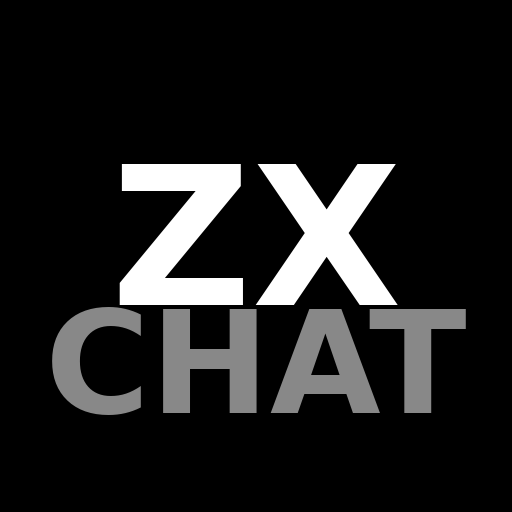
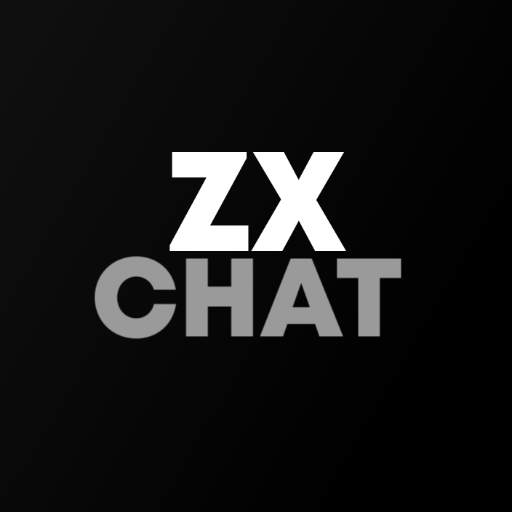
Add files via upload

Changed region(s): [[0.0938, 0.2812, 0.9062, 0.8125]]

diff --git a/index.html b/index.html
@@ -10,8 +10,8 @@
 <meta name="apple-mobile-web-app-title" content="ZXChat"/>
 <meta name="application-name" content="ZXChat"/>
 <meta name="description" content="ZXChat — Secure Messaging"/>
-<link rel="apple-touch-icon" href="icon-192.png"/>
-<link rel="manifest" href="manifest.json"/>
[1 lines of base64/hex data omitted]
+<link rel="manifest" href="data:application/manifest+json,%7B%22name%22%3A%22ZXChat%22%2C%22short_name%22%3A%22ZXChat%22%2C%22description%22%3A%22ZXChat%20%5Cu2014%20Secure%20Messaging%22%2C%22start_url%22%3A%22.%2F%22%2C%22display%22%3A%22standalone%22%2C%22background_color%22%3A%22%23000000%22%2C%22theme_color%22%3A%22%23000000%22%2C%22orientation%22%3A%22portrait-primary%22%2C%22icons%22%3A%5B%7B%22src%22%3A%22data%3Aimage%2Fpng%3Bbase64%2CiVBORw0KGgoAAAANSUhEUgAAAMAAAADACAIAAADdvvtQAAACWklEQVR42u3dwQ0DMQwEMfXftK8Lw6ehgGnAWCa%2FZGbmSOE8ggCQAJAAkACQAJAAkACQAJAAkACQAJAAkACQAJAAkACQAJAAkACQAJAAkACQAJAAkACQAJAAkACQAJAAkACQAJAAkACQAJAAkJYDcLsOAAAAAAAAAAAAAAAAAAAAAAAAAAAAAAAAAAAAAAAAAAAAAAAAAABwAADgAADAAQCAAwAABwAADgAAHAAAOAAAcAAA4AAAwAEAgAMAAAeAH8bSfz%2BcAJDhAyDDB0CGD4CMHwAZPgAyfABk%2FADI8AGQ4QMg4wdAhg%2BADB8AGT8Ahm%2F4ABi%2B4QNg%2BIYPgPEbPwCGb%2FgAGL7hA2D8xg%2BA4ZeHD4DhH%2B%2FsAYwfABk%2BADJ8AGT8AMjwAZDhAyDDB0DGD4AMHwAZPgAyfgBk%2BADI8AEwfuMHwPANHwDDN3wAjN%2F4ATB8wwfA8A0fAMM3fACM3%2FgBMHzvDIDhCwDjFwCGLwAMXwAYvwAwfAFg%2BALA%2BAWA4QsAwxcAhi8AjF8AGL7CAAxfWQDGryQAw1cSgOErC8D4lQRg%2BEoCMHxlARi%2FkgAMX0kAhi%2FfAA9hcfcOAAAAAAAAAAAAAAAAAAAAAAAAAAAAAAAAAAAAAAAAAAAAAAAAAABwAADgAADAAQCAAwAABwAADgAAHAAAOAAAcAAA4AAAwAEAgAMAAAfA%2Fj%2FJkwCQAJAAkACQAJAAkACQAJAAkACQAJAAkACQPIAAkACQAJAAkACQAJAAkACQAJAAkACQAJAAkACQAJAAkACQAJAAkACQAJAAkACQnukDlXZUMc%2BUgR8AAAAASUVORK5CYII%3D%22%2C%22sizes%22%3A%22192x192%22%2C%22type%22%3A%22image%2Fpng%22%2C%22purpose%22%3A%22any%20maskable%22%7D%2C%7B%22src%22%3A%22data%3Aimage%2Fpng%3Bbase64%2CiVBORw0KGgoAAAANSUhEUgAAAgAAAAIACAIAAAB7GkOtAAAK1UlEQVR42u3XAQ3AAAgDwfo3DToo1%2BQMLMv4JckAAO94CAAgAAAAAQAACAAAQAAAAAIAABAAAIAAAAAEAAAgAAAAAQAACAAAQAAAAAIAABAAAIAAAAAEAAAgAABAAAAAAgAAEAAAgAAAAAQAACAAAAABAAAIAABAAAAAAgAAEAAAgAAAAAQAACAAAAABAAAIAABAAACAAAAABAAAIAAAAAEAAAgAAEAAAAACAAAQAACAAAAABAAAIAAAAAEAAAgAAEAAAAACAAAQAACAAAAAAQAACAAAQAAAAAIAABAAAIAAAAAEAAAgAAAAAQAACAAAQAAAAAIAABAAAIAAAAAEAAAgAAAAAQAAAgAAEAAAgAAAAAQAACAAAAABAAAIAABAAAAAAgAAEAAAgAAAAAQAACAAAAABAAAIAABAAAAAAgAA8BAAQAAAAAIAABAAAIAAAAAEAAAgAAAAAQAACAAAQAAAAAIAABAAAIAAAAAEAAAgAAAAAXCSmVnLfNMFAALAzAQAAgABYGYCAAGAADAzAYAAEABmZgIAASAAzMwEAAJAAJiZCQAEgAAwMxMACAABYGYmABAAAsDMTAAgAASAmZkAQAAIADMzASAAEABmZgJAACAAzMwEgABAAJiZCQABgAAwMxMAAgABYGYmAAQAAsDMTAAIAASAmQkABAACwMwEAAIAAWBmAgABgC%2BGmQkABIAAMDMTAAgAAWBmJgAQAALAzEwAIAAEgJmZAEAACAAzMwGAABAAZmYCAAEgAMzMBIAAQACYmQkAAYAAMDMTAAIAAWBmJgAEAALAzEwACAAEgJmZABAACAAzMwEgABAAZiYAEAAIADMTAAgABICZCQAEAALAzAQAAkAAmJkJAASAADAzEwAIAAFgZiYAEAACwMxMACAABICZmQBAAAgAMzMBgAAQAGZmAkAAIADMzASAAEAAmJkJAAGAADAzEwACAAFgZiYABAACwMxMAAgABICZmQAQAAgAMxMACAAEgJkJAAQAAsDMBAACAAFgZgIAASAAzMwEAAJAAJiZCQAEgAAwMxMACAABYGYmABAAAsDMTAAgAASAmZkAQAAIADMzASAAEABmZgJAAADgZ0KACAAAHH6HXwAA4PA7%2FAIAAIff4RcAADj%2Bjr8AAMDhd%2FgFAAAOv8MvAABw%2FB1%2FAQCAw%2B%2FwCwAAh9%2B8BwIAwOF3%2BBEAAI6%2F448AAHD4HX4EAIDD7%2FAjAAAcf8cfAQDg8Dv8eAgADr%2FDLwAAcPwdfwEAgMPv8AsAABx%2Bh18AAODwO%2FwCAMDxd%2Fy9BwIAwOF3%2BBEAAA6%2Fw48AAHD8HX8EAIDD7%2FAjAAAcfocfAQDg8Dv8CAAAx9%2FxRwAAOPwOPwIAwOF3%2BBEAAI6%2F448AAHD4HX4EAODwO%2FwIAADH3%2FFHAAA4%2FA4%2FAgDA4Xf4EQAADr%2FDjwAAcPwdfwQAgMPv8CMAABx%2Bhx8BAOD4O%2F4IAACH3%2BFHAAA4%2FA4%2FAgDA4Xf4EQCA4%2B%2F4gwAAHH6HHwQA4PA7%2FCAAAMff8QcBADj8Dj8IAMDhd%2FgRAACOv%2BOPAABw%2BB1%2BBACAw%2B%2FwIwAAHH6HHwEA4Pg7%2FggAAIff4UcAAA6%2Fww8CAHD8HX8QAIDD7%2FCDAAAcfocfBADg8Dv8IAAAx9%2FxBwEAOPwOPwgAwOF3%2BEEAAI6%2F4w8CAHD4HX4QAIDD7%2FAjAAAcf8cfAQA4%2FA4%2FCADA4Xf4QQAADr%2FDDwIAcPwdfxAAgMPv8IMAABx%2Bhx8EAOD4O%2F4gAACH3%2BEHAQA4%2FA4%2FCADA4Xf4QQAAjr%2FjDwIAHH7zHoAAAIff4QcEADj%2Bjj8gAMDhd%2FgBAQAOv8MPAgBw%2FB1%2FEACAw%2B%2FwgwAAHH6HHwQA4PA7%2FCAAAMff8QcBADj8Dj8IAMDhd%2FhBAIDj7%2Fh7D0AAgMPv8AMCABx%2Bhx8QAODwO%2FyAAADH3%2FEHBAA4%2FA4%2FIADA4Xf4AQEAjr%2FjDwgAcPgdfkAAgMPv8AMeAjj%2Bjj8IAMDhd%2FhBAIDD7%2FADAgAcfocfEADg%2BDv%2BgAAAh9%2FhBwQAOPwOPyAAwPF3%2FAEBAA6%2Fww8IAHD4HX5AAIDD7%2FADAgAcf8cfEADg8Dv8gAAAh9%2FhBwQAjr%2FjDyAAcPgdfgABgMPv8AMIABx%2Fxx8QAODwO%2FyAAACH3%2BEHBAA4%2FA4%2FIADA8Xf8AQEADr%2FDDwgAcPgdfkAAgOPv%2BAMCABx%2Bhx8QADj8Dj%2BAAMDhd%2FgBBACOv%2BMPIABw%2BB1%2BAAGAw%2B%2FwAwgAHH%2FHH0AA4PA7%2FAACAIff4QcQADj%2Bjj8gAMDhd%2FgBAQAOv8MPCAAcfvMeAAIAx9%2FxBxAAOPwOP4AAwOF3%2BAEEAI6%2F4w8gAHD4HX4AAYDD7%2FADCAAcfocfQADg%2BDv%2BAAIAh9%2FhBxAAOPwOP4AAwPF3%2FAEEgMPv8HsPAASAw%2B%2FwAyAAHH%2FHH0AA4PA7%2FAACAIff4QcQADj8Dj%2BAAMDxd%2FwBBAAOv8MPIABw%2BB1%2BAAGA4%2B%2F4AwgAHH6HH0AA4PA7%2FAACwOF3%2BAEQAI6%2F4w%2BAAHD4HX4ABIDD7%2FADIAAcf8cfAAHg8Dv8AAgAh9%2FhB0AAOP6OP4AAwOF3%2BAEEAA6%2Fww8gAHD4HX4AAYDj7%2FgDCACH3%2BEHQAA4%2FA4%2FAALA8Xf8ARAADr%2FDD4AAcPgdfgAEAOLDzPxIIAAEgJmZAEAACAAzMwGAABAAZmYCAAEgAMzMBAACQACYmQkABIAAMDMTAAgAAWBmJgDwEASAmZkAEAAIADMzASAAEABmZgJAACAAzMwEgABAAJiZCQABgAAwMxMAAgABYGbmmy4AEABmJgAQAAgAMxMACAAEgJkJAASAADAzEwAIAAFgZiYAEAACwMxMACAABICZmQBAAAgAMzMBgAAQAGZmAgABIADMzAQAAkAAmJkJAAGAADAzEwACAAFgZiYABAACwMxMAAgABICZmQAQAAgAMzMBIAAQAGZmAkAAIADMTAAgABAAZiYAEAAIADMTAAgAfDHMTAAgAASAmZkAQAAIADMzAYAAEABmZgIAASAAzMwEAAJAAJiZCQAEgAAwMxMACAABYGYmAAQAAsDMTAAIAASAmZkAEAAIADMzASAAEABmZgJAACAAzMwEgABAAJiZCQABgAAwMwGAAEAAmJkAQAAgAMxMACAAEABmJgAQAALAzEwAIAAEgJmZAEAACAAzMwGAABAAZmYCAAEgAMzMBAACQACYmQkABIAAMDMTAAIAAWBmJgAEAALAzEwACAAEgJmZABAACAAzMwEgAAAAAQAACAAAQAAAAAIAABAAAIAAAAAEAAAgAAAAAQAACAAAQAAAAAIAAAQAACAAAAABAAAIAABAAAAAAgAAEAAAgAAAAAQAACAAAAABAAAIAABAAAAAAgAAEAAAgAAAAAQAAOAhAIAAAAAEAAAgAAAAAQAACAAAQAAAAAIAABAAAIAAAAAEAAAgAAAAAQAACAAAQAAAAAIAABAAAIAAAAABAAAIAABAAAAAAgAAEAAAgAAAAAQAACAAAAABAAAIAABAAAAAAgAAEAAAgAAAAAQAACAAAAABAAACAAAQAACAAAAABAAAIAAAAAEAAAgAAEAAAAACAAAQAACAAAAABAAAIAAAAAEAAAgAAEAAAAACAAAEAAAgAAAAAQAACAAAQAAAAAIAABAAAIAAAAAEAAAgAAAAAQAACAAAQAAAAAIAABAAAIAAAAAEAAAIAABAAAAAAgAAKLMvSCOkWP%2FqsgAAAABJRU5ErkJggg%3D%3D%22%2C%22sizes%22%3A%22512x512%22%2C%22type%22%3A%22image%2Fpng%22%2C%22purpose%22%3A%22any%20maskable%22%7D%5D%7D"/>
 <title>ZX Chat</title>
 <link href="https://fonts.googleapis.com/css2?family=Bebas+Neue&family=DM+Sans:ital,opsz,wght@0,9..40,300;0,9..40,400;0,9..40,500;0,9..40,600;0,9..40,700;1,9..40,400&family=DM+Mono:wght@400;500&display=swap" rel="stylesheet"/>
 <style>
@@ -146,6 +146,31 @@ html,body{height:100%;background:var(--bg);color:var(--text);font-family:'DM San
 .inp-btn:hover{background:var(--surface2);color:var(--text);}
 .send-btn{background:var(--text);color:#000;border-color:var(--text);}
 .send-btn:hover{background:var(--accent2);}
+/* ── VOICE RECORDING BAR ── */
+#voice-rec-bar{display:none;align-items:center;gap:10px;padding:6px 4px;}
+#voice-rec-bar.on{display:flex;}
+.vrec-dot{width:9px;height:9px;border-radius:50%;background:var(--danger);flex-shrink:0;animation:pulse-rec 1s infinite;}
+@keyframes pulse-rec{0%,100%{opacity:1;}50%{opacity:.25;}}
+#vrec-timer{font-family:'DM Mono',monospace;font-size:12px;color:var(--text);min-width:38px;}
+#vrec-wave{flex:1;height:26px;display:flex;align-items:center;gap:2px;overflow:hidden;}
+.vrec-bar{width:3px;border-radius:2px;background:var(--border2);flex-shrink:0;}
+#vrec-cancel{background:none;border:1px solid var(--border2);color:var(--text3);cursor:pointer;font-size:10px;font-family:'DM Mono',monospace;letter-spacing:.5px;padding:4px 8px;border-radius:6px;transition:.15s;}
+#vrec-cancel:hover{color:var(--danger);border-color:var(--danger);}
+#vrec-send{width:38px;height:38px;background:var(--text);color:#000;border:none;border-radius:9px;cursor:pointer;display:flex;align-items:center;justify-content:center;flex-shrink:0;}
+#vrec-send svg{width:15px;height:15px;stroke:currentColor;fill:none;stroke-width:2;stroke-linecap:round;stroke-linejoin:round;}
+/* ── VOICE MESSAGE PLAYER ── */
+.vmsg-wrap{display:flex;align-items:center;gap:10px;min-width:190px;max-width:240px;}
+.vmsg-play{width:36px;height:36px;border-radius:50%;background:var(--surface3);border:1px solid var(--border2);color:var(--text);cursor:pointer;display:flex;align-items:center;justify-content:center;flex-shrink:0;transition:.15s;}
+.vmsg-play:hover{background:var(--border2);}
+.vmsg-play svg{width:13px;height:13px;stroke:currentColor;fill:none;stroke-width:2.2;stroke-linecap:round;stroke-linejoin:round;}
+.vmsg-right{flex:1;display:flex;flex-direction:column;gap:4px;}
+.vmsg-waveform{display:flex;align-items:center;gap:1.5px;height:22px;cursor:pointer;}
+.vmsg-wbar{width:2.5px;border-radius:2px;background:var(--border2);flex-shrink:0;transition:background .15s;}
+.vmsg-wbar.played{background:var(--text2);}
+.vmsg-bot{display:flex;align-items:center;gap:6px;}
+.vmsg-prog-wrap{flex:1;height:3px;background:var(--border2);border-radius:2px;cursor:pointer;position:relative;}
+.vmsg-prog{height:3px;background:var(--text);border-radius:2px;width:0%;}
+.vmsg-dur{font-family:'DM Mono',monospace;font-size:10px;color:var(--text3);white-space:nowrap;}
 #attach-menu{position:absolute;bottom:64px;left:16px;background:var(--surface);border:1px solid var(--border2);border-radius:10px;display:none;flex-direction:column;min-width:170px;z-index:10;overflow:hidden;box-shadow:0 8px 24px rgba(0,0,0,.6);}
 #attach-menu.on{display:flex;}
 .am-opt{display:flex;align-items:center;gap:9px;padding:10px 14px;font-size:13px;color:var(--text2);cursor:pointer;transition:.12s;font-family:'DM Sans',sans-serif;}
@@ -403,6 +428,15 @@ input[type=file]{display:none;}
             <div class="am-opt" onclick="pick('any')"><svg viewBox="0 0 24 24" width="15" height="15" stroke="currentColor" fill="none" stroke-width="1.8" stroke-linecap="round" stroke-linejoin="round"><path d="m21.44 11.05-9.19 9.19a6 6 0 0 1-8.49-8.49l8.57-8.57A4 4 0 1 1 18 8.84l-8.59 8.57a2 2 0 0 1-2.83-2.83l8.49-8.48"/></svg> Any File</div>
           </div>
           <div id="emo-pick"></div>
+          <div id="voice-rec-bar">
+            <div class="vrec-dot"></div>
+            <span id="vrec-timer">0:00</span>
+            <div id="vrec-wave"></div>
+            <button id="vrec-cancel" onclick="cancelVoice()">CANCEL</button>
+            <button id="vrec-send" onclick="stopVoice(true)" title="Send">
+              <svg viewBox="0 0 24 24"><line x1="22" y1="2" x2="11" y2="13"/><polygon points="22 2 15 22 11 13 2 9 22 2"/></svg>
+            </button>
+          </div>
           <div class="input-row">
             <button class="inp-btn" onclick="toggleAttach()" title="Attach"><svg viewBox="0 0 24 24"><path d="m21.44 11.05-9.19 9.19a6 6 0 0 1-8.49-8.49l8.57-8.57A4 4 0 1 1 18 8.84l-8.59 8.57a2 2 0 0 1-2.83-2.83l8.49-8.48"/></svg></button>
 
@@ -410,6 +444,7 @@ input[type=file]{display:none;}
               onkeydown="if(event.key==='Enter'&&!event.shiftKey){event.preventDefault();sendMsg();}"
               oninput="autoH(this);onTyping();"></textarea>
 
+            <button class="inp-btn" id="voice-btn" onclick="startVoice()" title="Voice note"><svg viewBox="0 0 24 24"><path d="M12 2a3 3 0 0 1 3 3v7a3 3 0 0 1-6 0V5a3 3 0 0 1 3-3z"/><path d="M19 10v2a7 7 0 0 1-14 0v-2"/><line x1="12" y1="19" x2="12" y2="22"/></svg></button>
             <button class="inp-btn send-btn" onclick="sendMsg()" title="Send"><svg viewBox="0 0 24 24"><line x1="22" y1="2" x2="11" y2="13"/><polygon points="22 2 15 22 11 13 2 9 22 2"/></svg></button>
           </div>
         </div>
@@ -1049,7 +1084,29 @@ function buildMsg(m,users,rx,polls){
   else if(m.type==='image')body=`<img class="msg-img" src="${m.url}" onclick="lightbox(this.src)" style="max-width:100%;"/>`;
   else if(m.type==='video')body=`<div style="background:var(--surface3);border-radius:8px;padding:14px;font-size:12px;color:var(--text3);font-family:'DM Mono',monospace;">📹 Video not supported</div>`;
   else if(m.type==='audio')body=`<audio class="msg-audio" controls style="width:100%;max-width:220px;"><source src="${m.url}"/></audio>`;
-  else if(m.type==='voice')body=`<div style="display:flex;align-items:center;gap:8px;font-size:12px;font-family:'DM Mono',monospace;color:var(--text3);">[ Voice note ]</div>`;
+  else if(m.type==='voice'){
+    const vid='v'+m.id.replace(/\W/g,'');
+    const dur=m.duration?fmtDur(m.duration):'0:00';
+    const bars=m.waveform||Array.from({length:30},()=>Math.random());
+    const wHTML=bars.map((h,i)=>{
+      const pct=Math.max(12,Math.round(h*100));
+      return `<div class="vmsg-wbar" id="${vid}b${i}" style="height:${pct}%;"></div>`;
+    }).join('');
+    body=`<div class="vmsg-wrap">
+      <button class="vmsg-play" onclick="vmsgPlay('${vid}','${m.url}',${JSON.stringify(bars)},${m.duration||0})" id="${vid}btn">
+        <svg id="${vid}ico" viewBox="0 0 24 24"><polygon points="5 3 19 12 5 21 5 3"/></svg>
+      </button>
+      <div class="vmsg-right">
+        <div class="vmsg-waveform" onclick="vmsgSeek(event,'${vid}','${m.url}')" id="${vid}wave">${wHTML}</div>
+        <div class="vmsg-bot">
+          <div class="vmsg-prog-wrap" onclick="vmsgSeek(event,'${vid}','${m.url}')" id="${vid}pw">
+            <div class="vmsg-prog" id="${vid}prog"></div>
+          </div>
+          <span class="vmsg-dur" id="${vid}dur">${dur}</span>
+        </div>
+      </div>
+    </div>`;
+  }
   else body=`<div style="display:flex;align-items:center;gap:10px;"><div class="mf-icon" style="font-size:13px;font-family:'DM Mono',monospace;color:var(--text2);">FILE</div><div><div class="mf-name">${esc(m.fileName||'File')}</div><div class="mf-size">${m.fileSize||''}</div></div></div>`;
 
   const msgRx=rx[m.id]||{};
@@ -1186,38 +1243,181 @@ function handleFile(e,type){
 }
 
 /* ── VOICE RECORDING ── */
-let _mediaRec=null, _audioChunks=[], _recStream=null;
-async function toggleVoice(){
-  const btn=document.getElementById('voice-btn');
-  if(!_mediaRec || _mediaRec.state==='inactive'){
-    // Start recording
-    try{
-      _recStream=await navigator.mediaDevices.getUserMedia({audio:true});
-      _audioChunks=[];
-      _mediaRec=new MediaRecorder(_recStream);
-      _mediaRec.ondataavailable=e=>{if(e.data.size>0)_audioChunks.push(e.data);};
-      _mediaRec.onstop=()=>{
-        const blob=new Blob(_audioChunks,{type:'audio/webm'});
-        const reader=new FileReader();
-        reader.onload=ev=>{
-          pushMsg({id:'m'+Date.now(),from:ME.id,type:'voice',url:ev.target.result,ts:Date.now()});
-          toast('Voice note sent','ok');
-        };
-        reader.readAsDataURL(blob);
-        _recStream.getTracks().forEach(t=>t.stop());
-        _mediaRec=null;_audioChunks=[];_recStream=null;
-        btn.style.color='';btn.style.background='';btn.title='Voice note';
-      };
-      _mediaRec.start();
-      btn.style.color='var(--danger)';btn.style.background='rgba(255,68,68,0.15)';btn.title='Stop & Send';
-      toast('Recording… tap again to send','wn');
-    }catch(e){
-      toast('Microphone access denied','er');
-    }
-  } else {
-    // Stop and send
-    _mediaRec.stop();
+/* ── VOICE RECORDING ── */
+let _mediaRec=null,_audioChunks=[],_recStream=null,_recTimer=null,_recSecs=0,_recAnalyser=null,_recWaveInt=null,_waveData=[];
+const _VMIME=['audio/webm;codecs=opus','audio/webm','audio/ogg;codecs=opus','audio/mp4','audio/aac','audio/wav'];
+function _getBestMime(){return _VMIME.find(m=>MediaRecorder.isTypeSupported&&MediaRecorder.isTypeSupported(m))||'';}
+function fmtDur(s){const m=Math.floor(s/60);return m+':'+(('0'+Math.floor(s%60)).slice(-2));}
+
+async function startVoice(){
+  if(_mediaRec)return;
+  try{
+    _recStream=await navigator.mediaDevices.getUserMedia({audio:{echoCancellation:true,noiseSuppression:true,sampleRate:44100}});
+  }catch(e){
+    toast('Microphone access denied','er');return;
   }
+  _audioChunks=[];_recSecs=0;_waveData=[];
+  const mime=_getBestMime();
+  _mediaRec=new MediaRecorder(_recStream,mime?{mimeType:mime}:{});
+
+  // Setup analyser for live waveform
+  try{
+    const ctx=new(window.AudioContext||window.webkitAudioContext)();
+    const src=ctx.createMediaStreamSource(_recStream);
+    _recAnalyser=ctx.createAnalyser();
+    _recAnalyser.fftSize=64;
+    src.connect(_recAnalyser);
+  }catch(e){_recAnalyser=null;}
+
+  _mediaRec.ondataavailable=e=>{if(e.data&&e.data.size>0)_audioChunks.push(e.data);};
+  _mediaRec.onstop=()=>_onVoiceStop();
+  _mediaRec.start(100);
+
+  // Show recording bar
+  document.querySelector('.input-row').style.display='none';
+  document.getElementById('voice-rec-bar').classList.add('on');
+  _buildRecWave();
+
+  // Timer
+  _recTimer=setInterval(()=>{
+    _recSecs++;
+    document.getElementById('vrec-timer').textContent=fmtDur(_recSecs);
+    if(_recSecs>=300)stopVoice(true); // max 5 min
+  },1000);
+
+  // Live waveform animation
+  const wavEl=document.getElementById('vrec-wave');
+  _recWaveInt=setInterval(()=>{
+    let amp=0.3;
+    if(_recAnalyser){
+      const d=new Uint8Array(_recAnalyser.frequencyBinCount);
+      _recAnalyser.getByteFrequencyData(d);
+      amp=Math.min(1,d.reduce((a,b)=>a+b,0)/(d.length*128));
+    }else{amp=0.2+Math.random()*0.5;}
+    _waveData.push(amp);
+    // Shift bars left
+    const bars=wavEl.querySelectorAll('.vrec-bar');
+    bars.forEach((b,i)=>{
+      const idx=_waveData.length-bars.length+i;
+      const v=idx>=0?_waveData[idx]:0;
+      b.style.height=Math.max(15,Math.round(v*100))+'%';
+      b.style.background=v>0.5?'var(--text)':'var(--border2)';
+    });
+  },100);
+}
+
+function _buildRecWave(){
+  const w=document.getElementById('vrec-wave');
+  w.innerHTML='';
+  const n=Math.floor(w.offsetWidth/5)||40;
+  for(let i=0;i<n;i++){const b=document.createElement('div');b.className='vrec-bar';b.style.height='15%';w.appendChild(b);}
+}
+
+function stopVoice(send){
+  if(!_mediaRec)return;
+  _mediaRec.stop();
+  clearInterval(_recTimer);clearInterval(_recWaveInt);
+  _recTimer=null;_recWaveInt=null;
+  if(!send){_waveData=[];}
+}
+
+function cancelVoice(){
+  stopVoice(false);
+  _recStream&&_recStream.getTracks().forEach(t=>t.stop());
+  _mediaRec=null;_audioChunks=[];_recStream=null;_recSecs=0;
+  document.querySelector('.input-row').style.display='flex';
+  document.getElementById('voice-rec-bar').classList.remove('on');
+  document.getElementById('vrec-timer').textContent='0:00';
+}
+
+function _onVoiceStop(){
+  _recStream&&_recStream.getTracks().forEach(t=>t.stop());
+  document.querySelector('.input-row').style.display='flex';
+  document.getElementById('voice-rec-bar').classList.remove('on');
+  document.getElementById('vrec-timer').textContent='0:00';
+
+  if(_audioChunks.length===0){_mediaRec=null;return;}
+
+  const mime=_mediaRec?_mediaRec.mimeType||'audio/webm':'audio/webm';
+  const blob=new Blob(_audioChunks,{type:mime});
+  const duration=_recSecs;
+  // Normalise waveform to 30 bars
+  const raw=_waveData.length>0?_waveData:[...Array(30)].map(()=>Math.random());
+  const step=raw.length/30;
+  const waveform=Array.from({length:30},(_,i)=>+(raw[Math.floor(i*step)]||0.3).toFixed(3));
+
+  _mediaRec=null;_audioChunks=[];_recStream=null;_recSecs=0;_waveData=[];
+
+  const reader=new FileReader();
+  reader.onload=ev=>{
+    if(!CHAT){toast('No chat selected','er');return;}
+    pushMsg({id:'m'+Date.now(),from:ME.id,type:'voice',url:ev.target.result,duration,waveform,ts:Date.now()});
+    toast('Voice note sent','ok');
+  };
+  reader.readAsDataURL(blob);
+}
+
+/* ── VOICE MESSAGE PLAYBACK ── */
+const _vmAudio={};
+function vmsgPlay(vid,url,waveform,duration){
+  // Pause any other playing
+  Object.entries(_vmAudio).forEach(([k,a])=>{
+    if(k!==vid&&!a.paused){
+      a.pause();
+      const ico=document.getElementById(k+'ico');
+      if(ico)ico.innerHTML='<polygon points="5 3 19 12 5 21 5 3"/>';
+    }
+  });
+  if(!_vmAudio[vid]){
+    const a=new Audio(url);
+    _vmAudio[vid]=a;
+    a.addEventListener('timeupdate',()=>_vmsgTick(vid,a,waveform,duration));
+    a.addEventListener('ended',()=>{
+      const ico=document.getElementById(vid+'ico');
+      if(ico)ico.innerHTML='<polygon points="5 3 19 12 5 21 5 3"/>';
+      const prog=document.getElementById(vid+'prog');
+      if(prog)prog.style.width='0%';
+      const dur=document.getElementById(vid+'dur');
+      if(dur)dur.textContent=fmtDur(duration||0);
+      _vmsgMarkBars(vid,waveform,0);
+    });
+  }
+  const a=_vmAudio[vid];
+  const ico=document.getElementById(vid+'ico');
+  if(a.paused){
+    a.play().catch(()=>toast('Cannot play audio','er'));
+    if(ico)ico.innerHTML='<rect x="6" y="4" width="4" height="16"/><rect x="14" y="4" width="4" height="16"/>';
+  }else{
+    a.pause();
+    if(ico)ico.innerHTML='<polygon points="5 3 19 12 5 21 5 3"/>';
+  }
+}
+
+function _vmsgTick(vid,a,waveform,duration){
+  const prog=document.getElementById(vid+'prog');
+  const dur=document.getElementById(vid+'dur');
+  const pct=a.duration?a.currentTime/a.duration:0;
+  if(prog)prog.style.width=(pct*100)+'%';
+  const rem=(a.duration||duration||0)-a.currentTime;
+  if(dur)dur.textContent=fmtDur(Math.max(0,rem));
+  _vmsgMarkBars(vid,waveform,pct);
+}
+
+function _vmsgMarkBars(vid,waveform,pct){
+  const n=waveform?waveform.length:30;
+  const played=Math.floor(pct*n);
+  for(let i=0;i<n;i++){
+    const b=document.getElementById(vid+'b'+i);
+    if(b)b.classList.toggle('played',i<played);
+  }
+}
+
+function vmsgSeek(e,vid,url){
+  const a=_vmAudio[vid];
+  if(!a||!a.duration)return;
+  const rect=e.currentTarget.getBoundingClientRect();
+  const pct=(e.clientX-rect.left)/rect.width;
+  a.currentTime=pct*a.duration;
 }
 
 /* ── POLLS ── */
@@ -2042,7 +2242,26 @@ console.log('%c ZX CHAT READY ','background:#000;color:#fff;font-family:monospac
 <script>
 // ── SERVICE WORKER (PWA) ──
 if('serviceWorker' in navigator){
-  navigator.serviceWorker.register('./sw.js', {scope: './'}).catch(()=>{});
+  // Inline service worker as blob URL
+  const swCode = `
+    const CACHE='zxchat-v1';
+    const ASSETS=['/'];
+    self.addEventListener('install',e=>{
+      e.waitUntil(caches.open(CACHE).then(c=>c.addAll(ASSETS)).catch(()=>{}));
+      self.skipWaiting();
+    });
+    self.addEventListener('activate',e=>{
+      e.waitUntil(caches.keys().then(keys=>Promise.all(keys.filter(k=>k!==CACHE).map(k=>caches.delete(k)))));
+      self.clients.claim();
+    });
+    self.addEventListener('fetch',e=>{
+      if(e.request.method!=='GET')return;
+      e.respondWith(fetch(e.request).catch(()=>caches.match(e.request)));
+    });
+  `;
+  const blob = new Blob([swCode],{type:'application/javascript'});
+  const swUrl = URL.createObjectURL(blob);
+  navigator.serviceWorker.register(swUrl,{scope:'/'}).catch(()=>{});
 }
 
 // ── INSTALL PROMPT ──